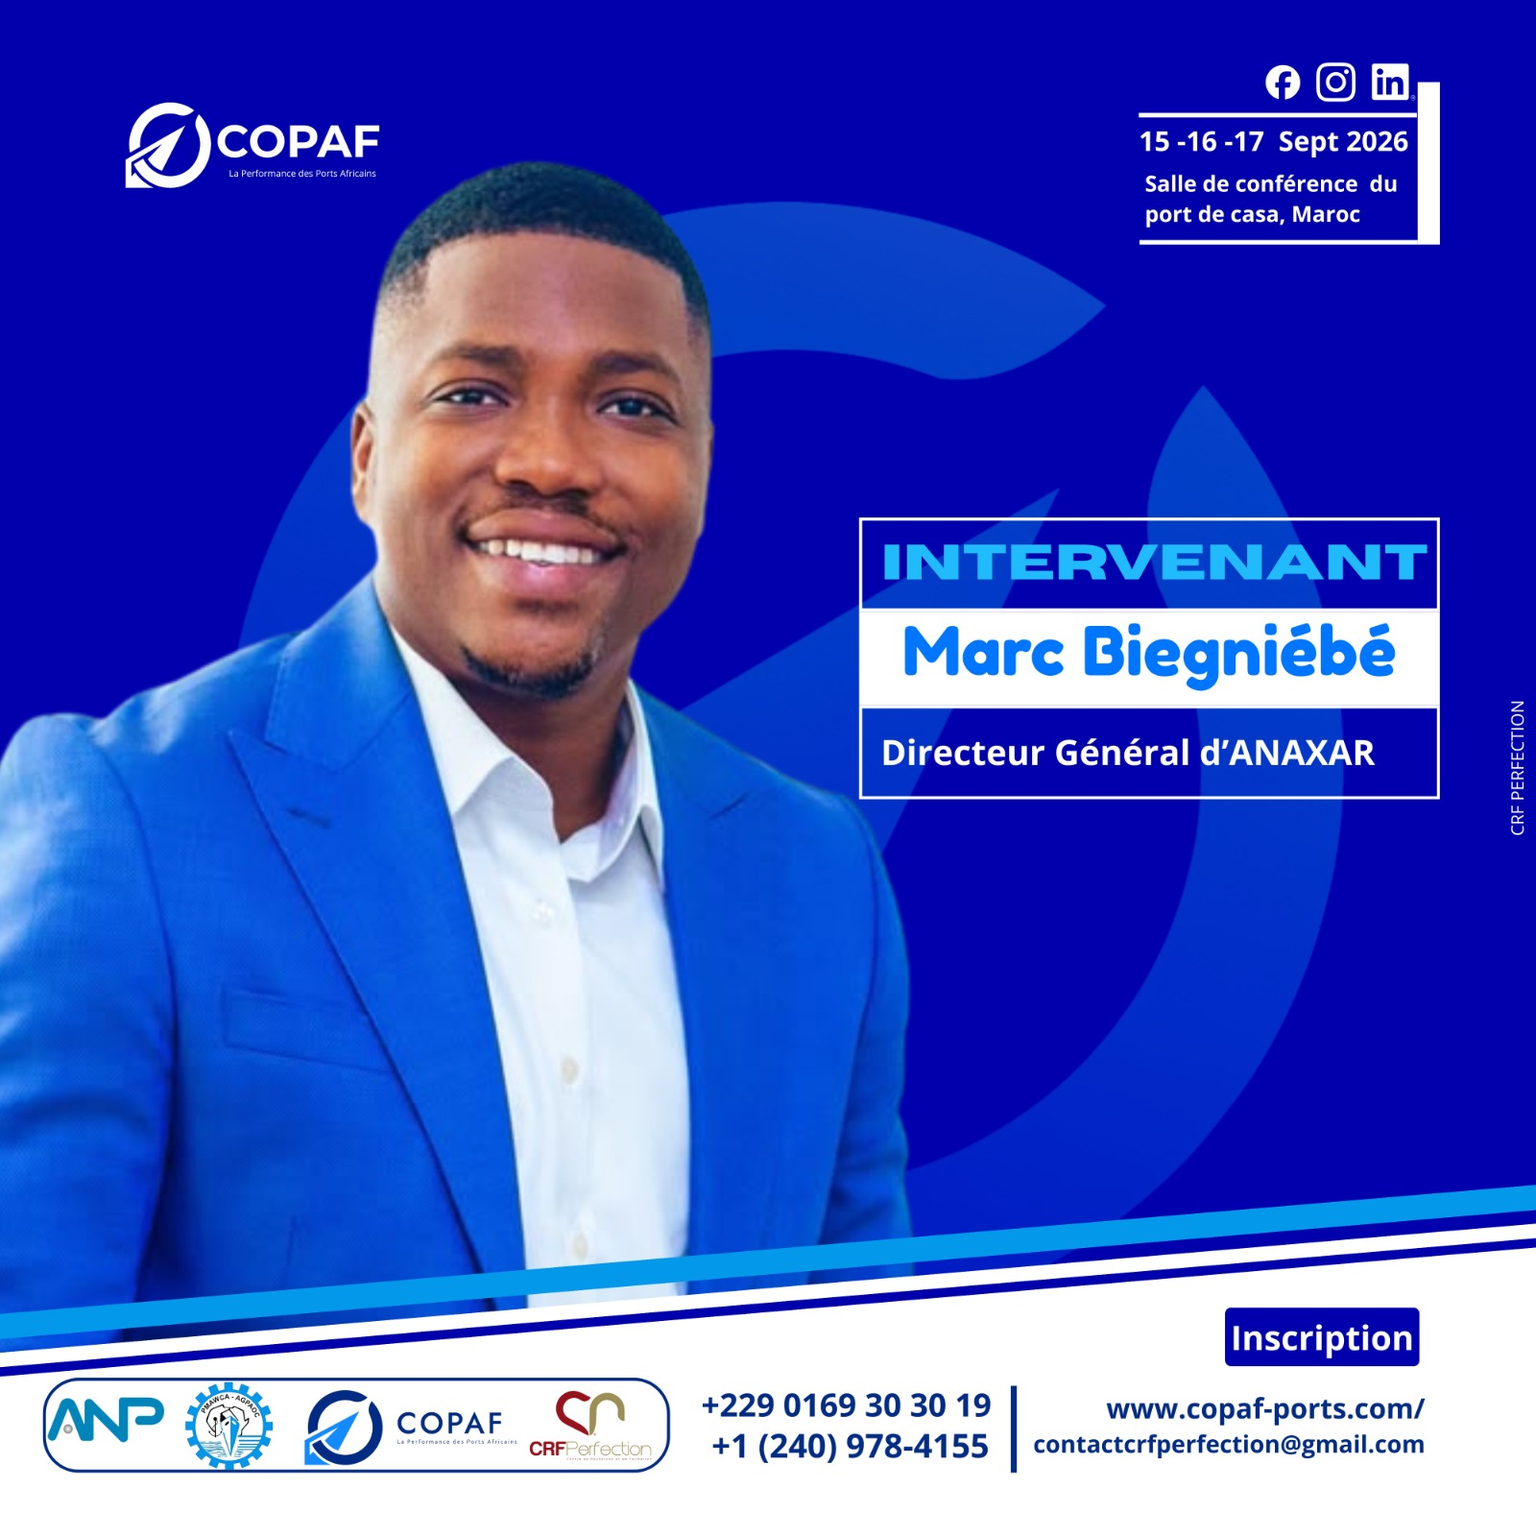
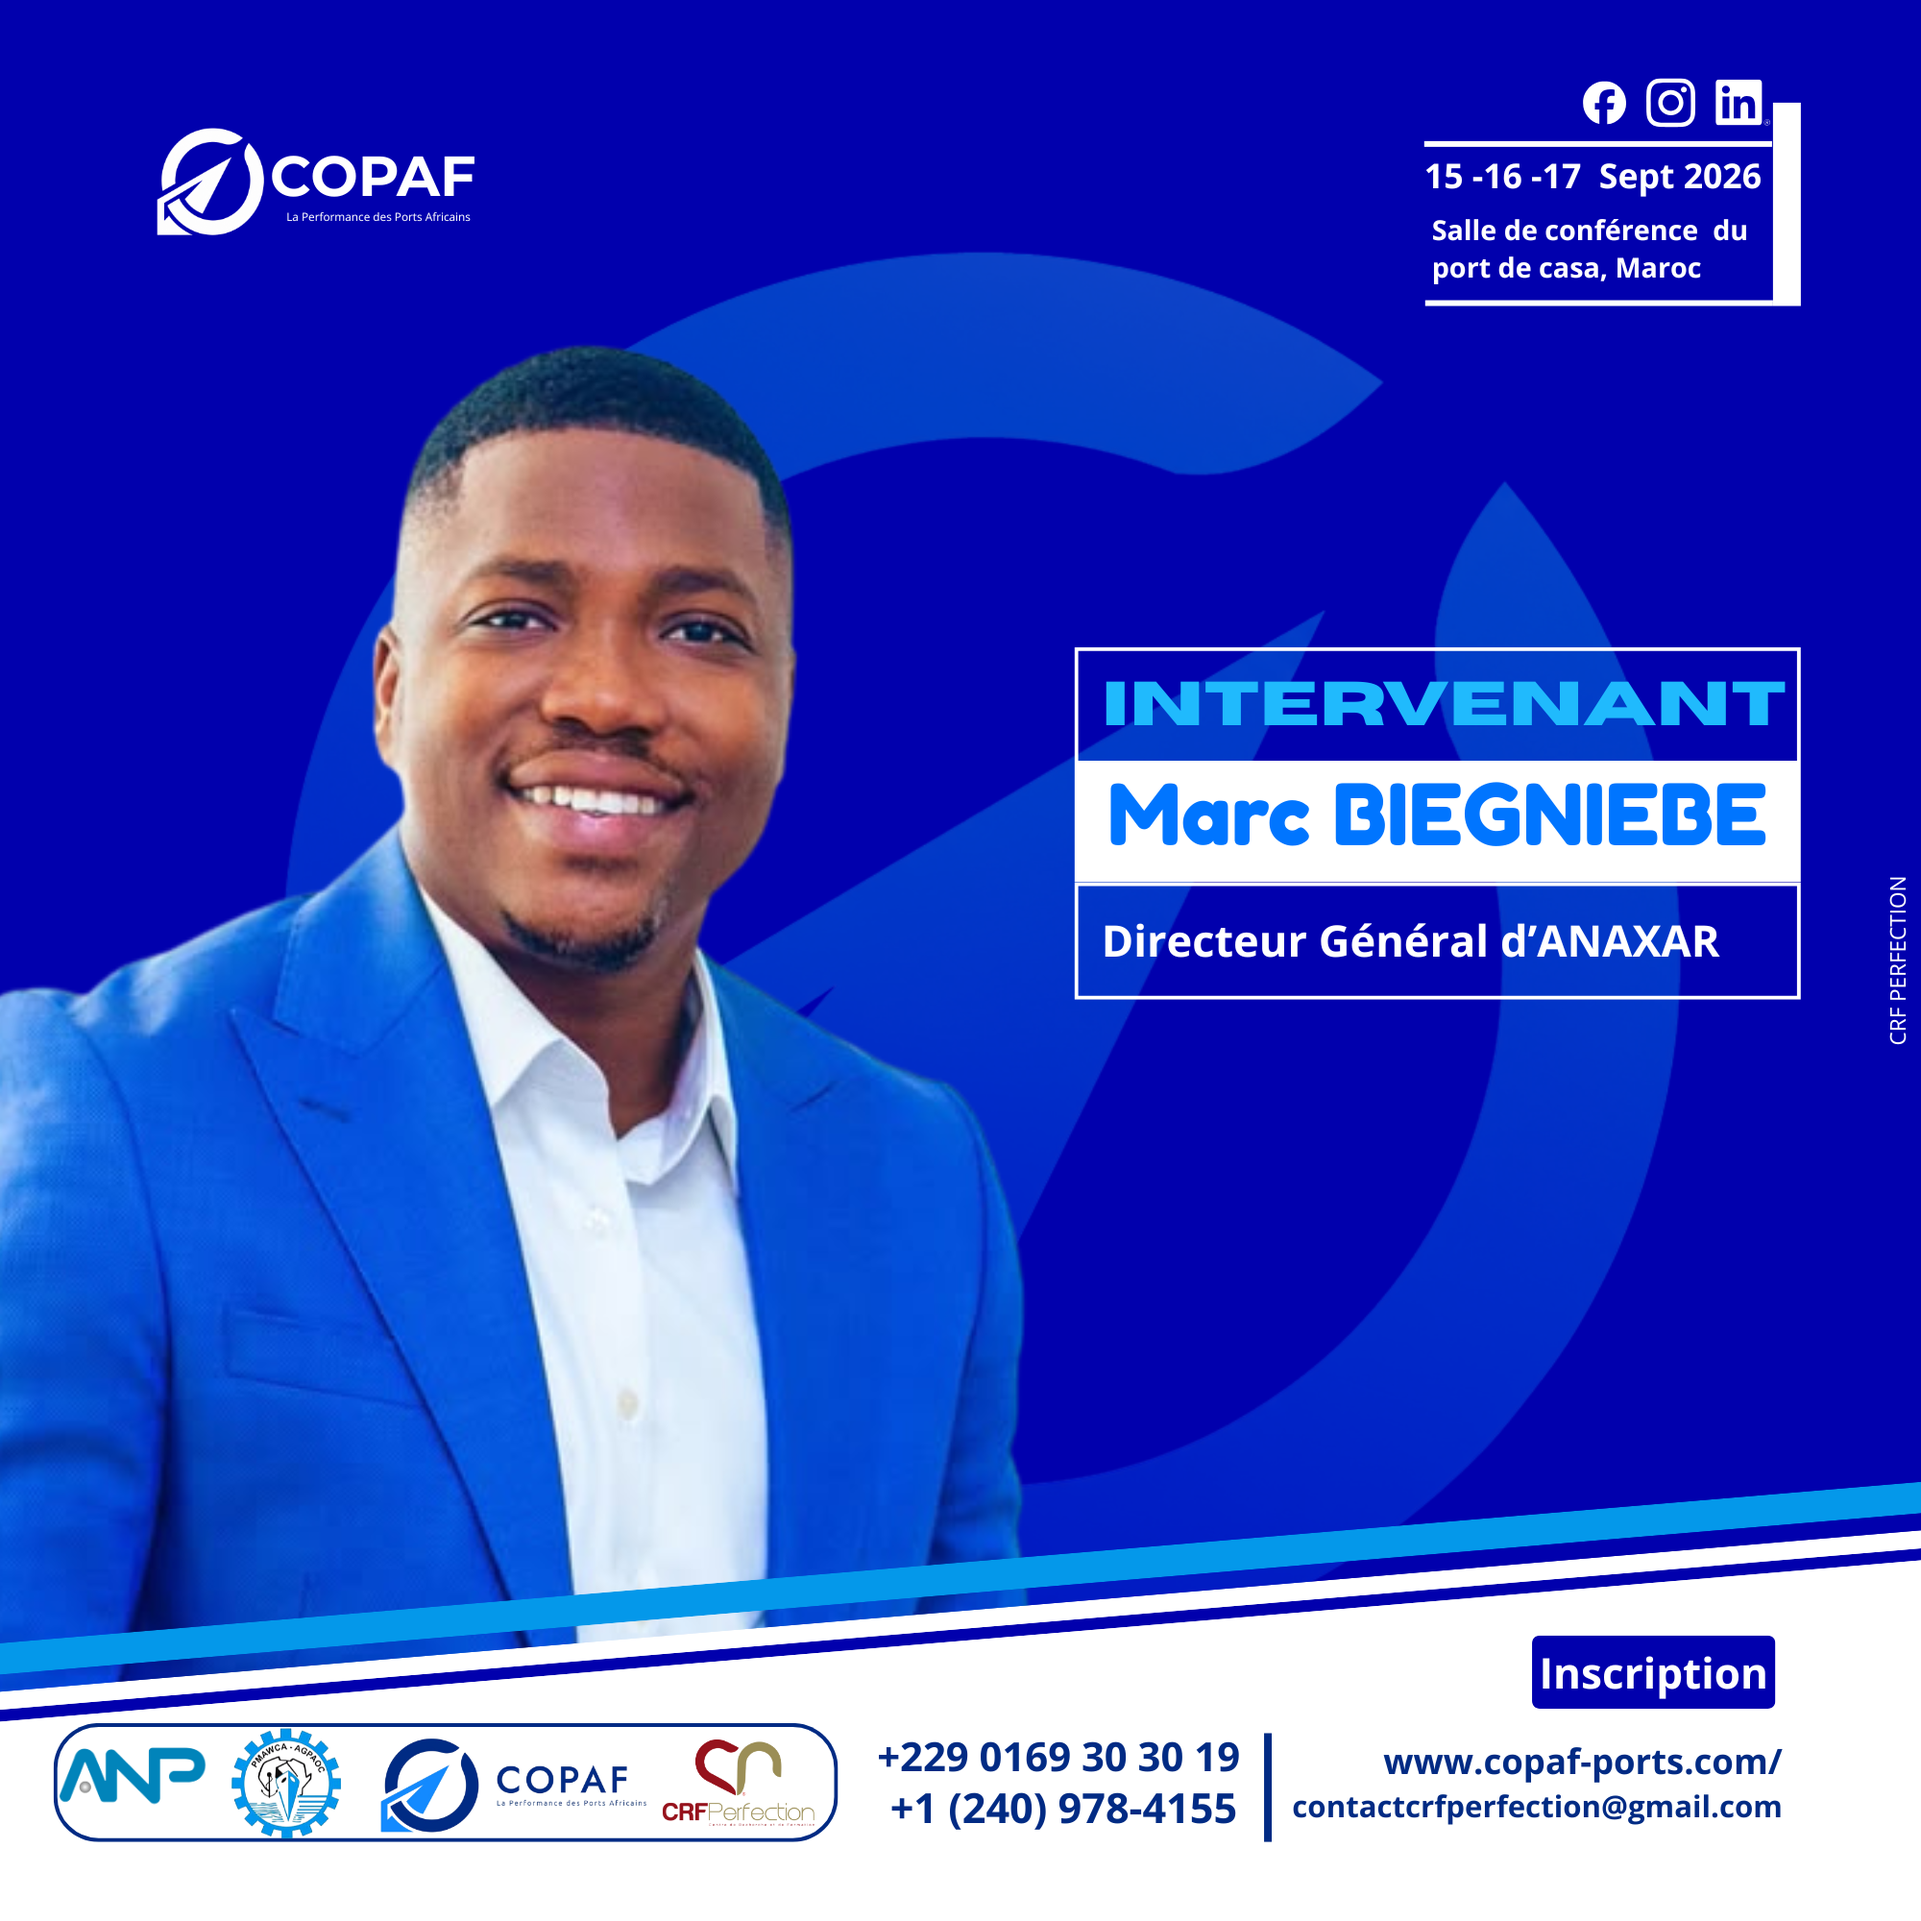
Fix Marc BIEGNIEBE name and update his photo

diff --git a/src/components/Intervenants.jsx b/src/components/Intervenants.jsx
@@ -45,7 +45,7 @@ const intervenants = [
   {
     initiales: 'MB',
     photo: '/marc.png',
-    nom: 'Marc Biegniébé',
+    nom: 'Marc BIEGNIEBE',
     titre: 'Directeur Général',
     organisation: 'ANAXAR',
     bioKey: 'biegniebeBio',
